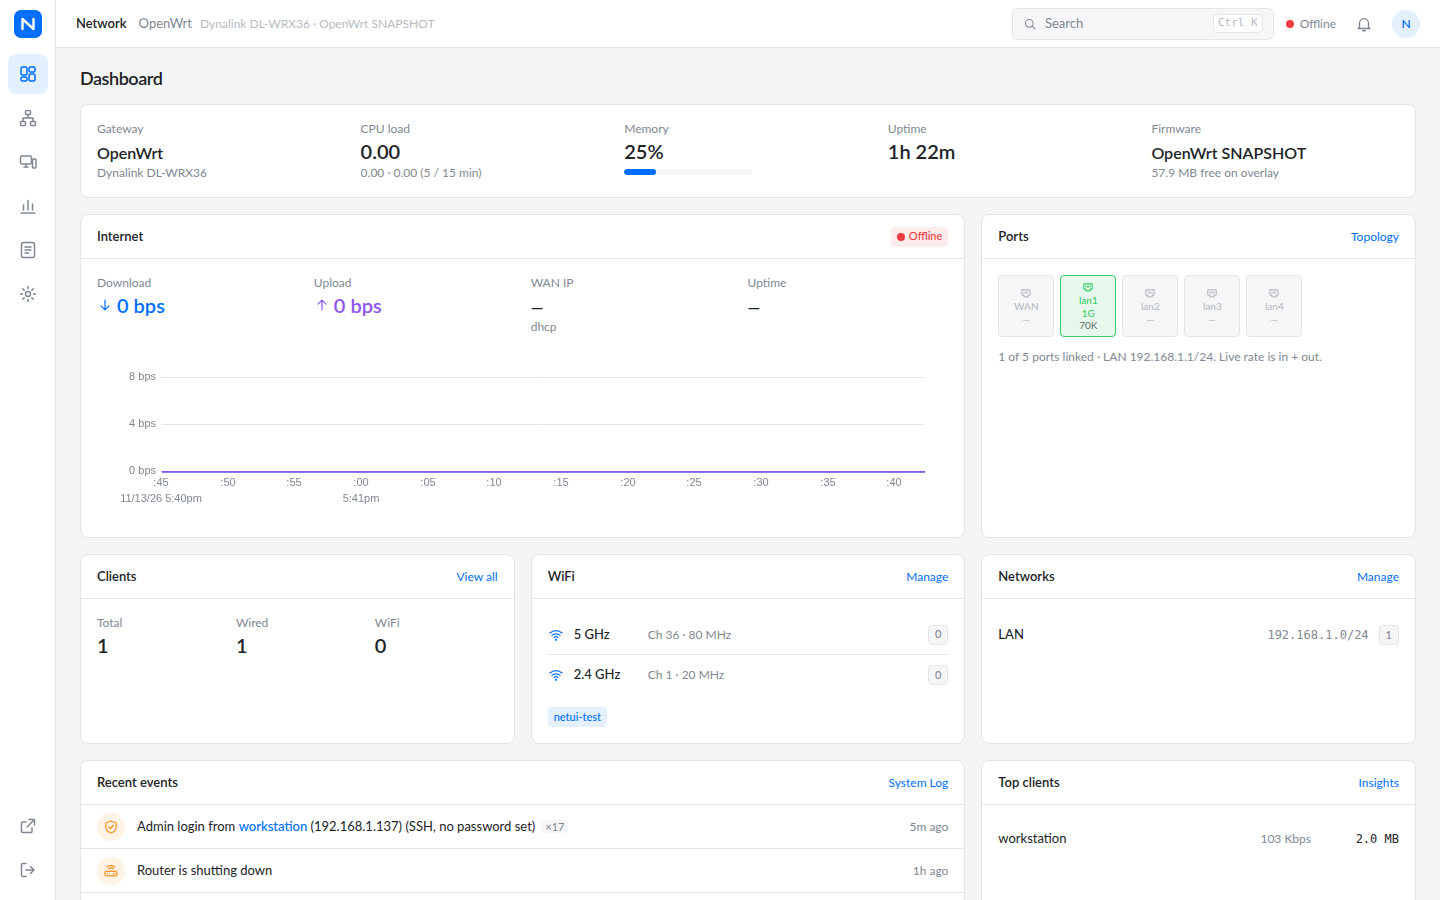
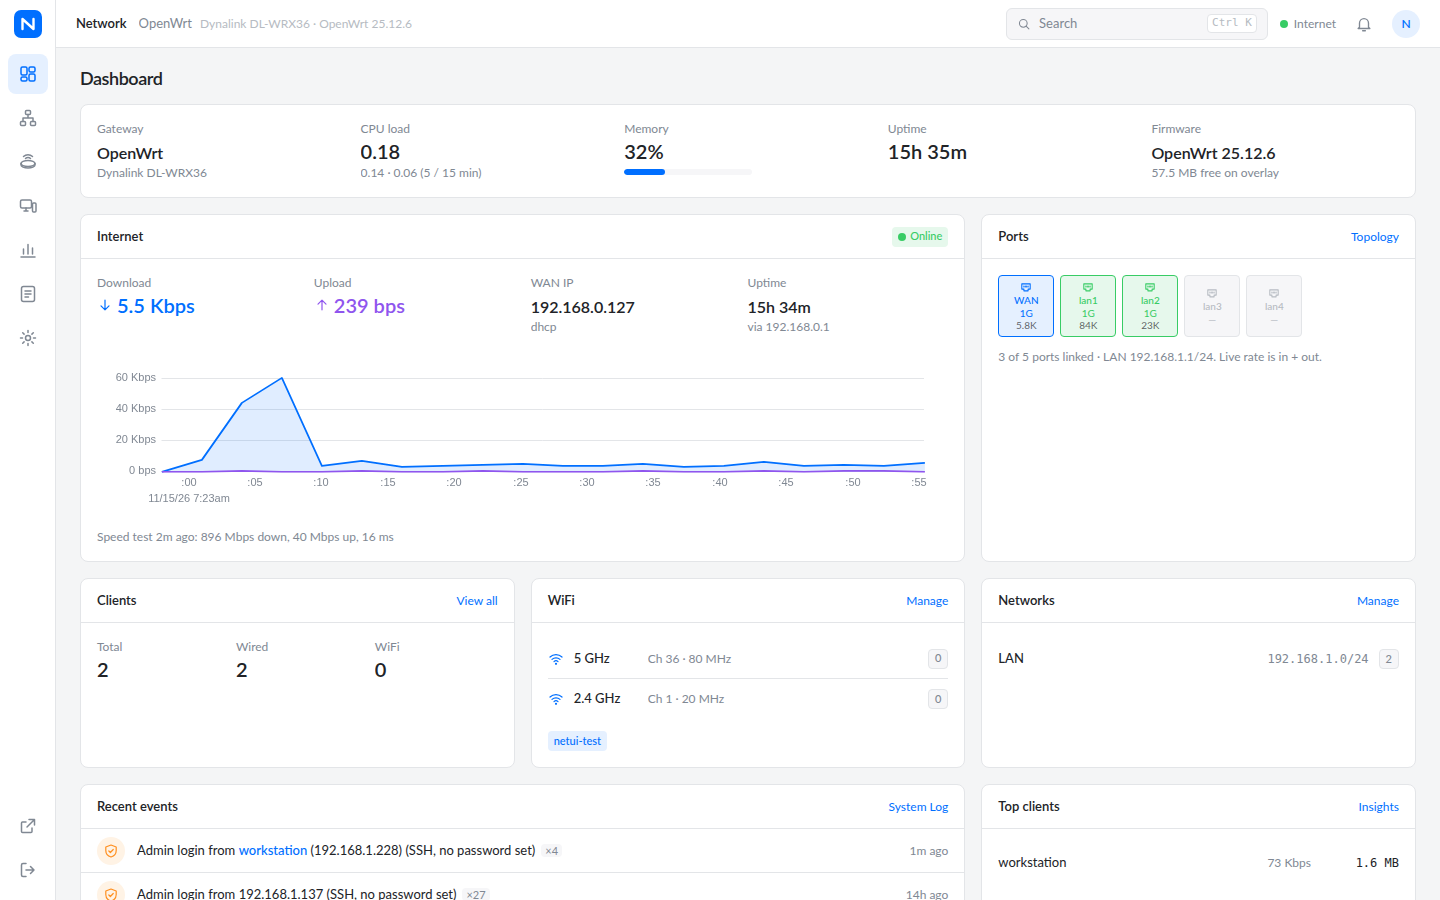
Screenshots: retaken with internet, access point and the new features
Fresh captures of the dashboard, topology, client details, insights and WiFi,
and new ones for Devices, usage history, Internet, ad blocking, System, the
change review and a phone. Neighbouring networks, the home's IPv6 prefix,
speed test servers and the workstation's name and MACs are replaced before
capture.

diff --git a/README.md b/README.md
@@ -14,11 +14,14 @@ access points and more, step by step.
 
 | | |
 |---|---|
-| ![Dashboard](docs/screenshots/dashboard.png) **Dashboard**: gateway health, WAN throughput, ports, WiFi, top clients and recent events | ![Topology](docs/screenshots/topology.png) **Topology**: internet, gateway, ports, radios and the clients on each |
+| ![Dashboard](docs/screenshots/dashboard.png) **Dashboard**: gateway health, internet throughput, the last speed test, ports, WiFi, top clients and recent events | ![Topology](docs/screenshots/topology.png) **Topology**: internet, gateway, ports, radios, access points and the clients on each |
+| ![Devices](docs/screenshots/devices.png) **Devices**: the gateway and adopted access points with their uplink (cable or mesh) | ![WiFi settings](docs/screenshots/wifi.png) **WiFi**: SSIDs, radios with live utilisation and noise, wireless mesh, client steering |
 | ![Client details](docs/screenshots/client-connections.png) **Client devices**: live activity, usage and open connections per client | ![Insights](docs/screenshots/insights.png) **Insights**: channel utilisation, nearby networks per channel and a channel suggestion |
-| ![WiFi settings](docs/screenshots/wifi.png) **WiFi**: SSIDs, radios with live utilisation and noise, schedules | ![Firewall policies](docs/screenshots/firewall-policies.png) **Firewall & Security**: zone policies, traffic rules, port forwarding, content filtering |
+| ![Usage history](docs/screenshots/usage.png) **Usage history**: download and upload per device and per application, by month | ![Internet](docs/screenshots/internet.png) **Internet**: the WAN, a second connection for failover, speed tests |
+| ![Ad blocking](docs/screenshots/ad-blocking.png) **Ad blocking and content filtering** for every device on the network | ![System](docs/screenshots/system.png) **System**: firmware updates, backup and restore, admins and read-only users |
+| ![Review changes](docs/screenshots/apply-review.png) **Every change is reviewed** and applied with a safety timer: if it cuts netui off, the router undoes it | <img src="docs/screenshots/mobile.png" alt="On a phone" width="240"> **On a phone**: the same UI with a bottom tab bar |
 
-Captured on a Dynalink DL-WRX36 test router running OpenWrt SNAPSHOT (no WAN connected).
+Captured on a Dynalink DL-WRX36 running OpenWrt 25.12.6, with a Xiaomi AX3600 as an adopted access point.
 
 ## Install on a router
 
